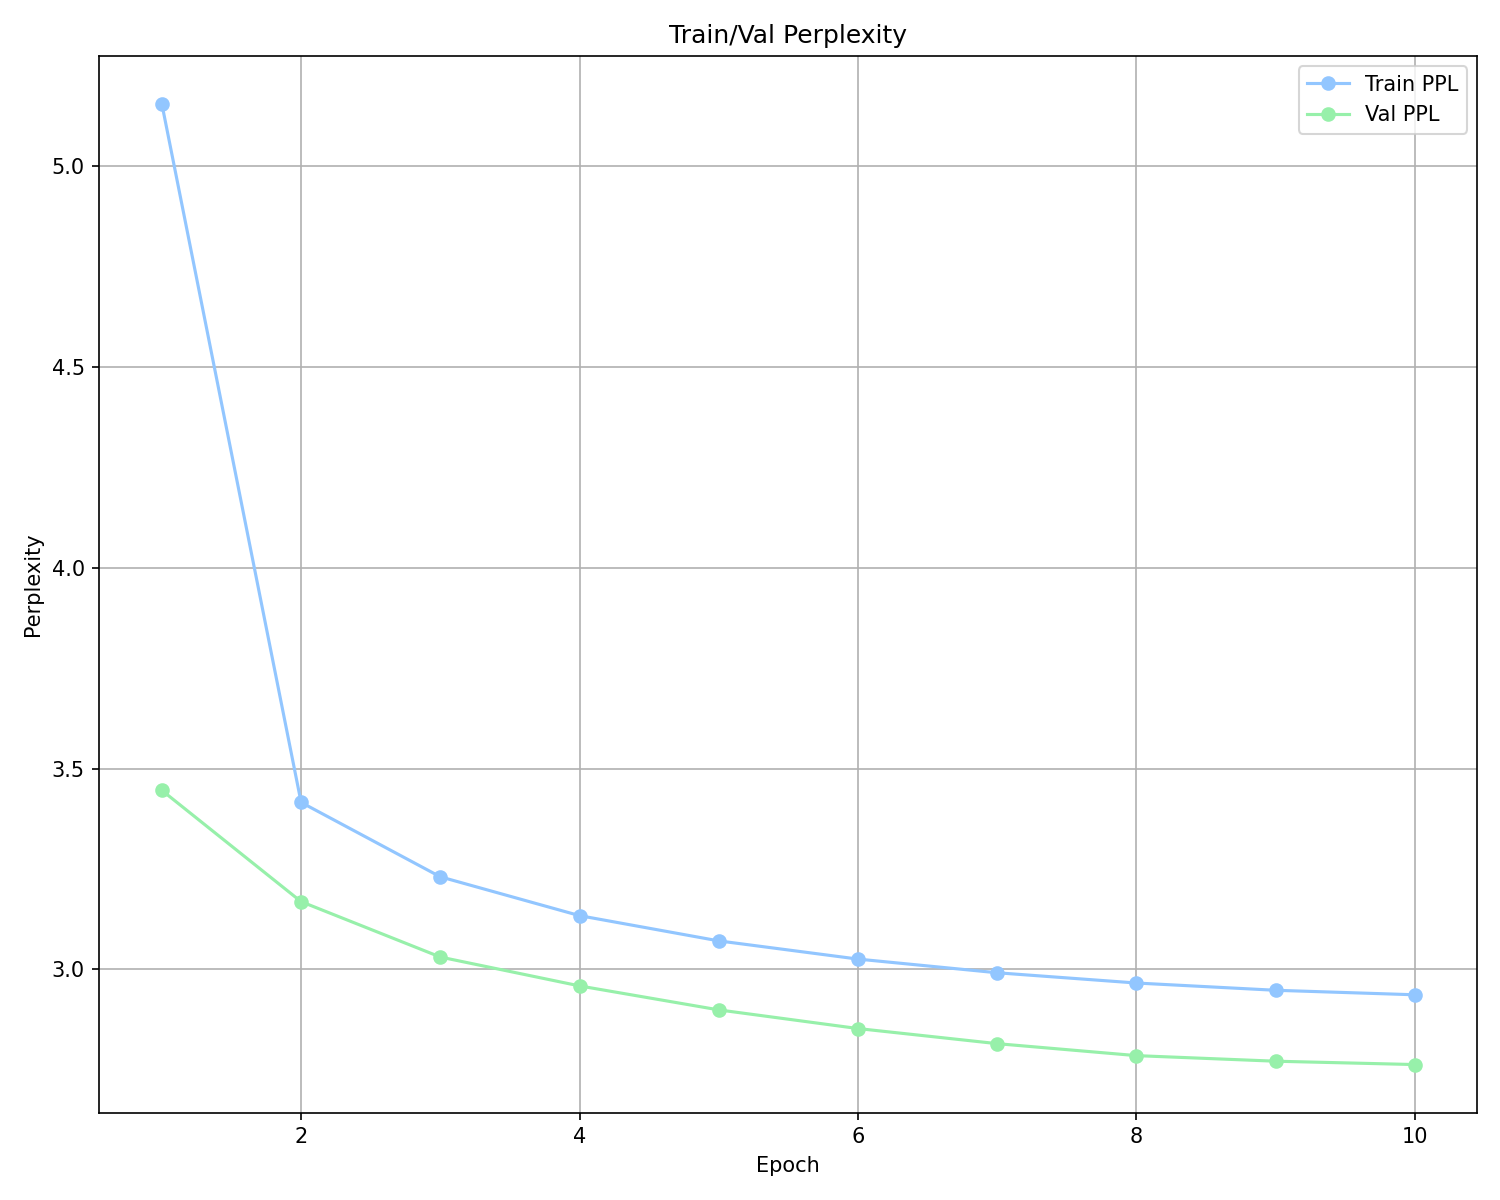
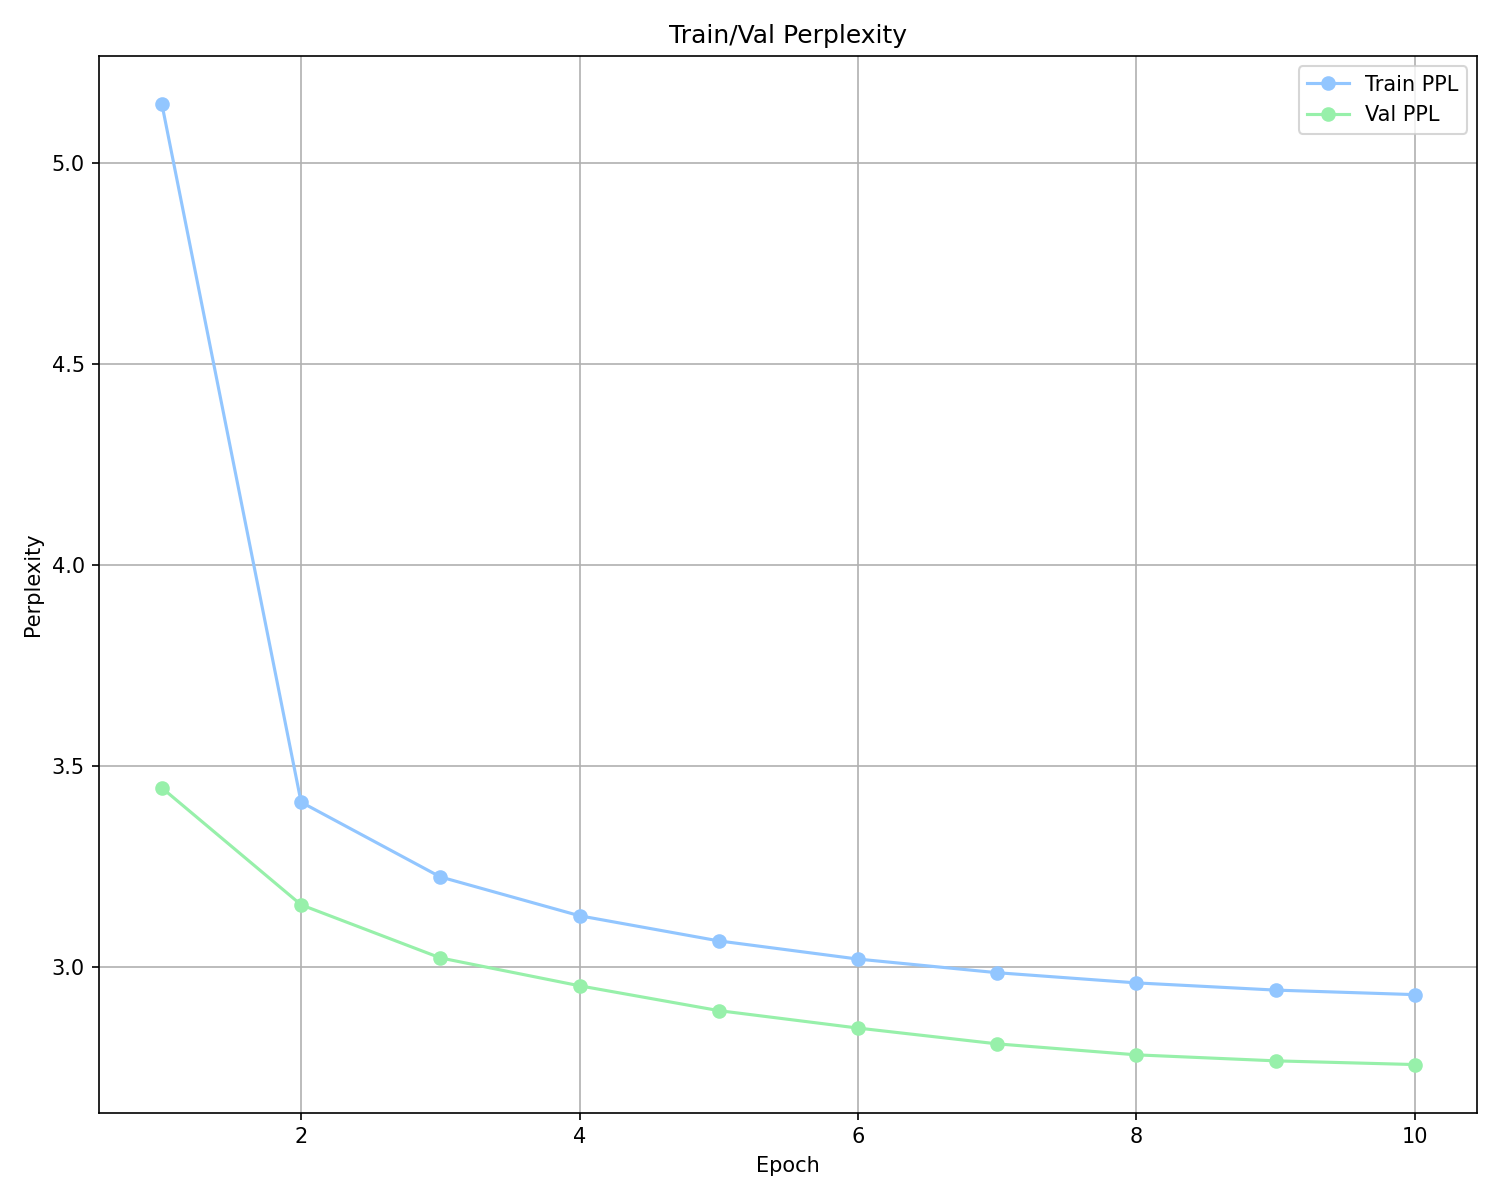
results: retrain on corrected special tokens, generate to EOS
Aggregate loss barely moved (custom 1.016 -> 1.014, HuggingFace
1.132 -> 1.143), but the comparison is now measuring the same thing on
both sides rather than two differently-handicapped runs.

Bits-per-byte is 0.623 for both tokenizers -- a 0.2% gap, down from the
0.8% measured on the buggy runs. The from-scratch BPE compresses this
corpus as well as HuggingFace's, despite fitting 251 merges into the
512-token budget against 407.

Samples now run to <|EOS|> instead of stopping at 124 tokens, so length
is the model's decision (142-1807 chars across the twelve). Adds a _raw
variant per tokenizer with the structure markers visible, which shows
the model reliably producing the ingredients/directions boundary.

diff --git a/README.md b/README.md
@@ -64,19 +64,19 @@ Every training run logs to MLflow: hyperparameters, per-epoch train/val loss & p
 8 layers, `d_model=256`, 8 heads (~6.8M params), vocab 512, 10 epochs over 2M+ recipes
 on a single RTX 5060 Ti. Both tokenizers train under an identical configuration and seed.
 
-| tokenizer | val loss | val perplexity | tokens/byte | **bits/byte** |
-|---|---|---|---|---|
-| custom BPE | 1.016 | 2.76 | 0.426 | **0.624** |
-| HuggingFace BPE | 1.132 | 3.10 | 0.385 | **0.629** |
+| tokenizer | merges | val loss | val perplexity | tokens/byte | **bits/byte** |
+|---|---|---|---|---|---|
+| custom BPE | 251 | 1.014 | 2.76 | 0.426 | **0.623** |
+| HuggingFace BPE | 407 | 1.143 | 3.13 | 0.378 | **0.623** |
 
 **Read the last column, not the perplexity.** Per-token perplexity is not comparable
-across tokenizers: the custom BPE learned 251 merges against HuggingFace's 413, so it
-emits finer-grained tokens that are each individually easier to predict. That alone
-accounts for nearly all of its apparent 12% perplexity advantage. Normalised to
-bits-per-byte — which measures compression of the same underlying text — the two are
-within 0.8% of each other. **A BPE implemented from first principles matches a
-production library's implementation to within a percent**, which is the result this
-project was built to test.
+across tokenizers: the custom BPE fits 251 merges into the 512-token budget against
+HuggingFace's 407, so it emits finer-grained tokens that are each individually easier
+to predict. That accounts for essentially all of its apparent 12% perplexity advantage.
+Normalised to bits-per-byte — compression of the same underlying text — the two are
+indistinguishable, within 0.2%. **A BPE implemented from first principles compresses
+this corpus as well as a production library's implementation**, which is the result
+this project was built to test.
 
 Validation loss decreased monotonically for both runs, every epoch, with no instability
 spikes; both were still improving at epoch 10, so these numbers are a floor rather than
@@ -87,19 +87,29 @@ a converged ceiling.
 | loss | ![custom loss](results/custom/loss_curve.png) | ![hug loss](results/hug/loss_curve.png) |
 | perplexity | ![custom ppl](results/custom/perplexity_curve.png) | ![hug ppl](results/hug/perplexity_curve.png) |
 
-Sample generations (full set in [results/](results/)), prompted with a bare ingredient list:
+Generation runs until the model emits `<|EOS|>` rather than to a fixed token budget, so
+sample length is the model's decision — across the twelve samples it ranges from 142 to
+1807 characters. Each run writes both a clean file and a `_raw` one with the structure
+markers left visible, which is the useful view when checking whether the model has
+actually learned the ingredients/directions boundary. Full set in [results/](results/):
 
-> **chicken, rice, curry** rice, Kale, cream of potato soup, quick-covered rotisserie
-> chicken, rice — Bring pot of water to boil. Add rice to boiling water and cook 25
-> minutes. In a bowl, mix meat with soup, kale, and chicken. […]
+> **flour, sugar, butter, eggs**, flour, lemon flavoring, baking powder, salt
+> `<|DIRECTIONS|>` Mix together. Pour into greased 9x13 pan. Bake 30 min at 350 degrees.
+> Serve with whipped cream or ice cream. `<|EOS|>`
 
-> **chicken, rice, curry** powder artichoke bites, green olive oil, garlic, salt, curry
-> powder, scallions, marjoram, shallots, lemon — in a large pot, heat oil and saute
-> garlic until translucent. add salt, sugar, curry powder and roasted scallions […]
+> **tomato, basil, mozzarella**, tomatoes, olives, basil, Parmesan, grated cheese, black
+> pepper `<|DIRECTIONS|>` Prepare your mayo according to the directions on the package,
+> then place in bowl. Add the mozzarella, and the black pepper. […]
 
-At 6.8M parameters the model produces fluent recipe-shaped text with plausible
-ingredient-to-method consistency, but it does not track quantities or step ordering
-reliably across a whole recipe.
+At 6.8M parameters the model reliably produces the ingredients → directions structure and
+locally fluent culinary prose, and short recipes are frequently coherent end to end. It
+still drifts over longer generations — repeating ingredients, losing track of what is
+already in the pan, and inventing occasional non-words.
+
+One artefact worth naming: generations sometimes contain the literal six-character
+sequence `\u00b0` instead of `°`. That is faithful reproduction, not a bug here — the upstream Kaggle CSV
+was serialised from JSON without unescaping, so roughly every baking recipe in the
+training data contains it.
 
 ### Effect of the fixes
 
@@ -109,11 +119,16 @@ were fixed:
 | | custom | HuggingFace |
 |---|---|---|
 | before | val 2.29 / ppl 9.84, diverged at epoch 5 | val 2.00 / ppl 7.39, oscillating |
-| after | **val 1.02 / ppl 2.76**, monotonic | **val 1.13 / ppl 3.10**, monotonic |
+| after | **val 1.01 / ppl 2.76**, monotonic | **val 1.14 / ppl 3.13**, monotonic |
 
 Perplexity improved 3.6× and 2.4× respectively, and the training instability that
 prompted the investigation disappeared entirely — it was an architecture bug, not a
 learning-rate problem.
+
+The later special-token fixes barely moved the aggregate loss (custom 1.016 → 1.014,
+HuggingFace 1.132 → 1.143) but they were what made the comparison trustworthy: before
+them, each run was handicapped differently, so the two bits-per-byte figures were not
+measuring the same thing.
 
 ## Engineering notes
 
@@ -145,6 +160,27 @@ finding them was most of the work:
   bottomed out earlier. Best-checkpoint selection is now tracked and restored.
 * **`targets.view(-1)` crashed on any non-contiguous target tensor** — latent, because
   the dataset happened to build targets as fresh tensors. Caught by a unit test.
+* **The two tokenizers assign special tokens different ids, and the code assumed one
+  layout.** The custom scheme puts them at the top of the vocabulary (507–511),
+  HuggingFace at the bottom (0–4), but `get_pad_idx` returned the custom value for
+  both. Padding the HuggingFace runs with 511 — an ordinary word, `' serving'` — meant
+  every genuine occurrence was masked out of attention and dropped from the loss via
+  `ignore_index`. Pad is now resolved against the tokenizer itself.
+* **The HuggingFace tokenizer had no `<|PAD|>` token at all**, and retraining it to add
+  one surfaced a second problem: `limit_alphabet` was unset, and the full corpus
+  contains ~628 distinct characters — more than the entire 512-token budget, leaving
+  zero room for merges. The original artefact had been trained on a smaller corpus and
+  silently depended on it having only ~95.
+* **A 252nd merge overran the vocabulary budget.** `merges.json` held ids 256–507 while
+  the config declared 251 merges, so merge 507 (`' cho'`) shared an id with
+  `<|TITLE|>` — every recipe's title marker was the same token as the `cho` in
+  *chocolate*. The arithmetic settles it: 256 base + 251 merges + 5 special = 512.
+* **`decode` silently swallowed anything outside the merge table.** `vocab.get(id, b"")`
+  meant the structure markers simply vanished from generated output, which is what hid
+  the two bugs above. It now renders them, with `skip_special_tokens` to opt out.
+* **Generation ran to a fixed 124 tokens** and stopped mid-word regardless of whether
+  the model had finished, which made the samples look far worse than the model was. It
+  now runs until `<|EOS|>`, with the context window as a safety net.
 
 ## Roadmap
 
